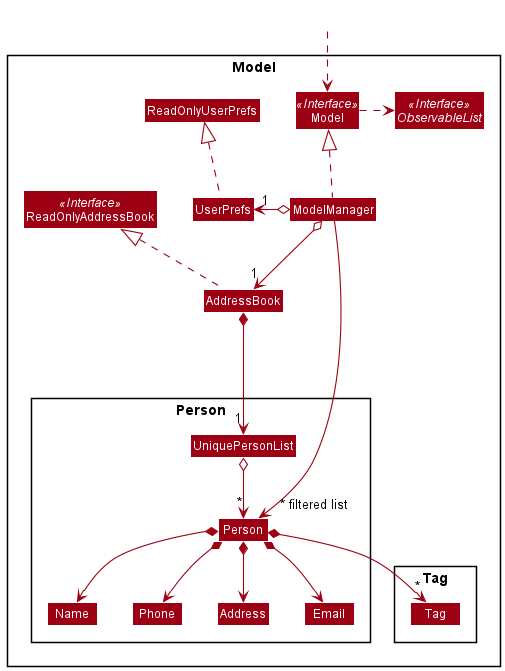
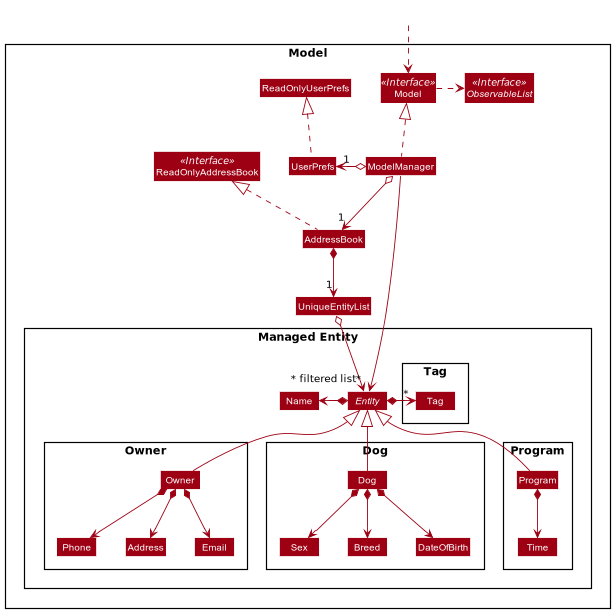
Update DG to explain add/delete and fix ModelClassDiagram

Changed region(s): [[0.0, 0.0621, 1.0, 1.0]]

diff --git a/docs/DeveloperGuide.md b/docs/DeveloperGuide.md
@@ -14,24 +14,11 @@ Refer to the guide [_Setting up and getting started_](SettingUp.md).
 --------------------------------------------------------------------------------------------------------------------
 ## **Target User Profile**
 
-The target user profile are dog school managers that own and manage the daily operations of the dog schools. They handle
-a wide range of operations such as keeping track of the dogs under their care, arranging classes and taking care of the
-dogs on a daily basis. They need a systematic way of maintaining their handle on the operations of their school at all
-times.
+The target user profile are dog school managers that own and manage the daily operations of the dog schools. They handle a wide range of operations such as keeping track of the dogs under their care, arranging classes and taking care of the dogs on a daily basis. They need a systematic way of maintaining their handle on the operations of their school at all times.
 
 ## **Value Proposition**
 
-In Singapore, dog schools are popular among dog owners. Besides day care, they also provide training,
-grooming and workshops. With many moving parts daily, managing operations  can get overwhelming.
-PawBook is an all-in-one management system to help dog school managers keep track of attendance, scheduling and services
-and maintain organisation.
-
-
-
-
-
-
-
+In Singapore, dog schools are popular among dog owners. Besides day care, they also provide training, grooming and workshops. With many moving parts daily, managing operations  can get overwhelming. PawBook is an all-in-one management system to help dog school managers keep track of attendance, scheduling and services and maintain organisation.
 
 --------------------------------------------------------------------------------------------------------------------
 
@@ -45,11 +32,11 @@ The ***Architecture Diagram*** given above explains the high-level design of the
 
 <div markdown="span" class="alert alert-primary">
 
-:bulb: **Tip:** The `.puml` files used to create diagrams in this document can be found in the [diagrams](https://github.com/se-edu/addressbook-level3/tree/master/docs/diagrams/) folder. Refer to the [_PlantUML Tutorial_ at se-edu/guides](https://se-education.org/guides/tutorials/plantUml.html) to learn how to create and edit diagrams.
+:bulb: **Tip:** The `.puml` files used to create diagrams in this document can be found in the [diagrams](https://github.com/AY2021S2-CS2103T-T10-1/tp/tree/master/docs/diagrams/) folder. Refer to the [_PlantUML Tutorial_ at se-edu/guides](https://se-education.org/guides/tutorials/plantUml.html) to learn how to create and edit diagrams.
 
 </div>
 
-**`Main`** has two classes called [`Main`](https://github.com/se-edu/addressbook-level3/tree/master/src/main/java/seedu/address/Main.java) and [`MainApp`](https://github.com/se-edu/addressbook-level3/tree/master/src/main/java/seedu/address/MainApp.java). It is responsible for,
+**`Main`** has two classes called [`Main`](https://github.com/AY2021S2-CS2103T-T10-1/tp/blob/master/src/main/java/dog/pawbook/Main.java) and [`MainApp`](https://github.com/AY2021S2-CS2103T-T10-1/tp/blob/master/src/main/java/dog/pawbook/MainApp.java). It is responsible for,
 * At app launch: Initializes the components in the correct sequence, and connects them up with each other.
 * At shut down: Shuts down the components and invokes cleanup methods where necessary.
 
@@ -84,11 +71,11 @@ The sections below give more details of each component.
 ![Structure of the UI Component](images/UiClassDiagram.png)
 
 **API** :
-[`Ui.java`](https://github.com/se-edu/addressbook-level3/tree/master/src/main/java/seedu/address/ui/Ui.java)
+[`Ui.java`](https://github.com/AY2021S2-CS2103T-T10-1/tp/blob/master/src/main/java/dog/pawbook/ui/Ui.java)
 
-The UI consists of a `MainWindow` that is made up of parts e.g.`CommandBox`, `ResultDisplay`, `OwnerListPanel`, `StatusBarFooter` etc. All these, including the `MainWindow`, inherit from the abstract `UiPart` class.
+The UI consists of a `MainWindow` that is made up of parts e.g.`CommandBox`, `ResultDisplay`, `EntityListPanel`, `StatusBarFooter` etc. All these, including the `MainWindow`, inherit from the abstract `UiPart` class.
 
-The `UI` component uses JavaFx UI framework. The layout of these UI parts are defined in matching `.fxml` files that are in the `src/main/resources/view` folder. For example, the layout of the [`MainWindow`](https://github.com/se-edu/addressbook-level3/tree/master/src/main/java/seedu/address/ui/MainWindow.java) is specified in [`MainWindow.fxml`](https://github.com/se-edu/addressbook-level3/tree/master/src/main/resources/view/MainWindow.fxml)
+The `UI` component uses JavaFx UI framework. The layout of these UI parts are defined in matching `.fxml` files that are in the `src/main/resources/view` folder. For example, the layout of the [`MainWindow`](https://github.com/AY2021S2-CS2103T-T10-1/tp/blob/master/src/main/java/dog/pawbook/ui/MainWindow.java) is specified in [`MainWindow.fxml`](https://github.com/AY2021S2-CS2103T-T10-1/tp/blob/master/src/main/resources/view/MainWindow.fxml)
 
 The `UI` component,
 
@@ -100,17 +87,17 @@ The `UI` component,
 ![Structure of the Logic Component](images/LogicClassDiagram.png)
 
 **API** :
-[`Logic.java`](https://github.com/se-edu/addressbook-level3/tree/master/src/main/java/seedu/address/logic/Logic.java)
+[`Logic.java`](https://github.com/AY2021S2-CS2103T-T10-1/tp/blob/master/src/main/java/dog/pawbook/logic/Logic.java)
 
-1. `Logic` uses the `AddressBookParser` class to parse the user command.
+1. `Logic` uses the `PawbookParser` class to parse the user command.
 1. This results in a `Command` object which is executed by the `LogicManager`.
 1. The command execution can affect the `Model` (e.g. adding a owner).
 1. The result of the command execution is encapsulated as a `CommandResult` object which is passed back to the `Ui`.
 1. In addition, the `CommandResult` object can also instruct the `Ui` to perform certain actions, such as displaying help to the user.
 
-Given below is the Sequence Diagram for interactions within the `Logic` component for the `execute("delete 1")` API call.
+Given below is the Sequence Diagram for interactions within the `Logic` component for the `execute("delete owner 1")` API call.
 
-![Interactions Inside the Logic Component for the `delete 1` Command](images/DeleteSequenceDiagram.png)
+![Interactions Inside the Logic Component for the `delete owner 1` Command](images/DeleteSequenceDiagram.png)
 
 <div markdown="span" class="alert alert-info">:information_source: **Note:** The lifeline for `DeleteCommandParser` should end at the destroy marker (X) but due to a limitation of PlantUML, the lifeline reaches the end of diagram.
 </div>
@@ -119,17 +106,17 @@ Given below is the Sequence Diagram for interactions within the `Logic` componen
 
 ![Structure of the Model Component](images/ModelClassDiagram.png)
 
-**API** : [`Model.java`](https://github.com/se-edu/addressbook-level3/tree/master/src/main/java/seedu/address/model/Model.java)
+**API** : [`Model.java`](https://github.com/AY2021S2-CS2103T-T10-1/tp/blob/master/src/main/java/dog/pawbook/model/Model.java)
 
 The `Model`,
 
 * stores a `UserPref` object that represents the user’s preferences.
 * stores the address book data.
-* exposes an unmodifiable `ObservableList<Owner>` that can be 'observed' e.g. the UI can be bound to this list so that the UI automatically updates when the data in the list change.
+* exposes an unmodifiable `ObservableList<Entity>` that can be 'observed' e.g. the UI can be bound to this list so that the UI automatically updates when the data in the list change.
 * does not depend on any of the other three components.
 
 
-<div markdown="span" class="alert alert-info">:information_source: **Note:** An alternative (arguably, a more OOP) model is given below. It has a `Tag` list in the `AddressBook`, which `Owner` references. This allows `AddressBook` to only require one `Tag` object per unique `Tag`, instead of each `Owner` needing their own `Tag` object.<br>
+<div markdown="span" class="alert alert-info">:information_source: **Note:** An alternative (arguably, a more OOP) model is given below. It has a `Tag` list in the `AddressBook`, which `Entity` references. This allows `AddressBook` to only require one `Tag` object per unique `Tag`, instead of each `Entity` needing their own `Tag` object.<br>
 ![BetterModelClassDiagram](images/BetterModelClassDiagram.png)
 
 </div>
@@ -139,7 +126,7 @@ The `Model`,
 
 ![Structure of the Storage Component](images/StorageClassDiagram.png)
 
-**API** : [`Storage.java`](https://github.com/se-edu/addressbook-level3/tree/master/src/main/java/seedu/address/storage/Storage.java)
+**API** : [`Storage.java`](https://github.com/AY2021S2-CS2103T-T10-1/tp/blob/master/src/main/java/dog/pawbook/storage/Storage.java)
 
 The `Storage` component,
 * can save `UserPref` objects in json format and read it back.
@@ -147,13 +134,27 @@ The `Storage` component,
 
 ### Common classes
 
-Classes used by multiple components are in the `seedu.addressbook.commons` package.
+Classes used by multiple components are in the `pawbook.commons` package.
 
 --------------------------------------------------------------------------------------------------------------------
 
 ## **Implementation**
 
 This section describes some noteworthy details on how certain features are implemented.
+
+### Adding/deleting feature
+Pawbook manages more than one type of entity, each with their own unique attributes. An OOP approach is used here whereby both the `AddCommand` and `DeleteCommand` are generic classes that extends the `Command` class. This way any number of other classes extending `Entity` can be added/deleted as well.
+
+The actual execution of these commands are largely the same and can be easily reimplemented to include more verification to the data if necessary, e.g. verifying that the owner ID refers to an actual owner instead of taking in an arbitrary number.
+
+In order to generate the respective commands, the raw input needs to be parsed first. It is required that the user provide a second keyword right after the `add`/`delete` command keyword to indicate the correct entity type to be added. Using this information, the arguments can be forwarded to the correct parser from within `PawbookParser` to be further processed. 
+
+Below is an example activity diagram for a valid add command from the user, it is similar for the delete command as well.
+
+![AddDeleteActivityDiagram](images/AddDeleteActivityDiagram.png)
+
+#### Alternate implementations
+
 
 ### \[Proposed\] Undo/redo feature
 
